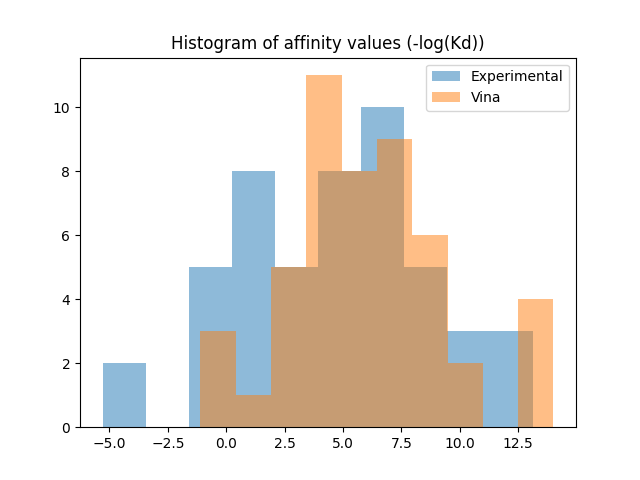
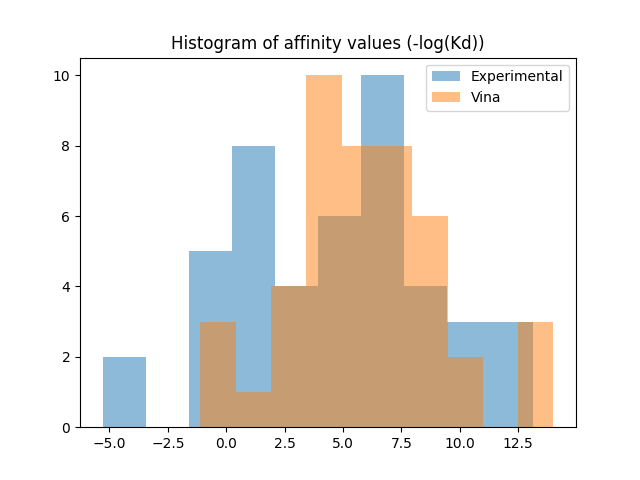
issue was missmatch between eval datasets.
They have same CI now.

Better CI with kd_only, due to less data...

diff --git a/src/data_analysis/stats_plots.py b/src/data_analysis/stats_plots.py
@@ -30,20 +30,23 @@ try:
 except:
     pass
 
-# %%
-run_num = 2
-for run_num in range(1,7):
-    y_path = 'data/PDBbind/kd_ki/Y.csv'
-    vina_out = f'results/PDBbind/vina_out/run{run_num}.csv'
-    save_path = 'results/PDBbind/media/kd_ki'
+if os.path.basename(os.getcwd()) == 'data_analysis':
+    import os; os.chdir('../../') # for if running from src/data_analysis/
+print(os.getcwd())
 
-    if os.path.basename(os.getcwd()) == 'data_analysis':
-        import os; os.chdir('../../') # for if running from src/data_analysis/
-    # print(os.getcwd())
+# %%
+for run_num in [6]:
+    y_path = 'data/PDBbind/kd_only/Y.csv'
+    vina_out = f'results/PDBbind/vina_out/run{run_num}.csv'
+    save_path = 'results/PDBbind/media/kd_only'
 
     ##%%
     vina_pred = pd.read_csv(vina_out)
     actual = pd.read_csv(y_path)
+    
+    # making sure to use the same data:
+    filter = pd.read_csv('results/PDBbind/vina_out/run5.csv')['PDBCode'] 
+    vina_pred = vina_pred.merge(filter, on='PDBCode')
 
     ##%%
     mrgd = actual.merge(vina_pred, on='PDBCode')
